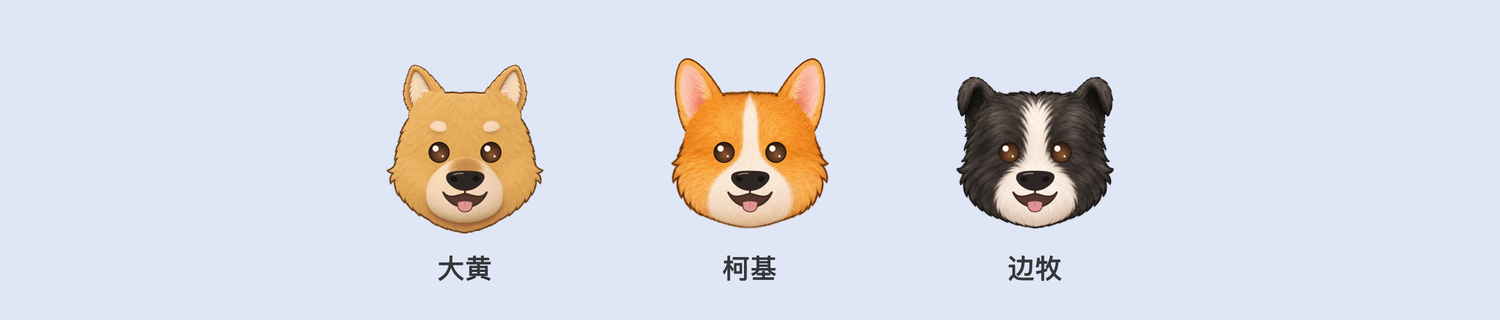
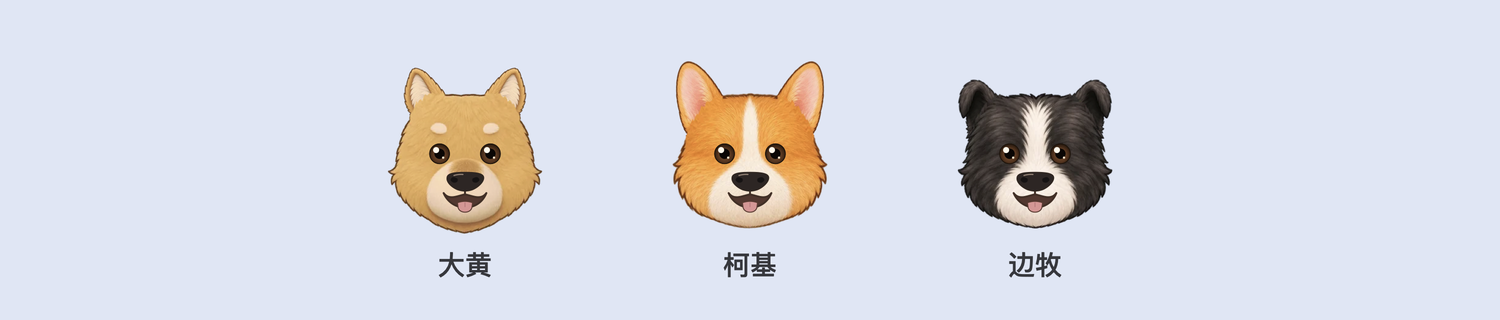
狗眼睛加黑瞳孔，虹膜改成外深内浅
- 小狗眼原来是一整颗棕色玻璃珠，没有瞳孔，像贴在毛上的纽扣；现在中间加一颗黑瞳孔，看向目标时比虹膜多偏一点
- 虹膜渐变改成中间浅、外圈深；三只狗的设置页头像和 README 合影同步更新
- 十只猫 1160 张回归截图零差异，三只狗 468 张截图已抽看，47 项测试通过

diff --git a/prototype/index.html b/prototype/index.html
@@ -32,11 +32,12 @@
     <clipPath id="clip-eye-r"><circle cx="455" cy="178" r="29"/></clipPath>
     <clipPath id="clip-puppy-l"><circle cx="363.108" cy="182" r="15"/></clipPath>
     <clipPath id="clip-puppy-r"><circle cx="436.892" cy="182" r="15"/></clipPath>
-    <!-- 小狗眼：暖棕虹膜，下方偏亮，外圈深 -->
-    <radialGradient id="puppy-iris" cx=".55" cy=".62" r=".62">
-      <stop stop-color="#8b5a33"/>
-      <stop offset=".5" stop-color="#5a3520"/>
-      <stop offset="1" stop-color="#23150c"/>
+    <!-- 小狗眼：暖棕虹膜，中间浅、外圈深，中间压一颗黑瞳孔 -->
+    <radialGradient id="puppy-iris" cx=".5" cy=".56" r=".6">
+      <stop stop-color="#8a5630"/>
+      <stop offset=".55" stop-color="#5b341b"/>
+      <stop offset=".85" stop-color="#2e1a0d"/>
+      <stop offset="1" stop-color="#170d06"/>
     </radialGradient>
     <!-- 前面那份尾巴的遮罩：盖掉身体（连同描边）那一块，尾巴从身后出来的部分仍被身体挡住。变换由 cat.js 跟着身体设置 -->
     <mask id="mask-tail-front" maskUnits="userSpaceOnUse" x="-20" y="-50" width="840" height="690">
@@ -116,6 +117,7 @@
 
     <g id="puppy-l-open" clip-path="url(#clip-puppy-l)" style="display:none">
       <circle id="puppy-l-pupil" class="puppy-pupil"/>
+      <circle id="puppy-l-dot" class="puppy-dot"/>
       <circle id="puppy-l-shine" fill="#fff8e8"/>
       <circle id="puppy-l-glint" fill="#f5dfc5"/>
       <rect id="puppy-l-lid" class="lid-l"/>
@@ -123,6 +125,7 @@
     </g>
     <g id="puppy-r-open" clip-path="url(#clip-puppy-r)" style="display:none">
       <circle id="puppy-r-pupil" class="puppy-pupil"/>
+      <circle id="puppy-r-dot" class="puppy-dot"/>
       <circle id="puppy-r-shine" fill="#fff8e8"/>
       <circle id="puppy-r-glint" fill="#f5dfc5"/>
       <rect id="puppy-r-lid" class="lid-r"/>

diff --git a/prototype/cat.js b/prototype/cat.js
@@ -245,7 +245,7 @@
     const puppyEyeEls = (s) => ({
       open: $('puppy-' + s + '-open'), clip: $('clip-puppy-' + s).querySelector('circle'),
       closed: $('eye-' + s + '-closed'), happy: $('eye-' + s + '-happy'),
-      pupil: $('puppy-' + s + '-pupil'), shine: $('puppy-' + s + '-shine'),
+      pupil: $('puppy-' + s + '-pupil'), dot: $('puppy-' + s + '-dot'), shine: $('puppy-' + s + '-shine'),
       glint: $('puppy-' + s + '-glint'), lid: $('puppy-' + s + '-lid'),
       lidLine: $('puppy-' + s + '-lidline'),
     });
@@ -790,7 +790,10 @@
         for (const n of puppy ? [e.clip, e.pupil] : [e.sclera, e.ring, e.clip]) {
           n.setAttribute('cx', x); n.setAttribute('cy', y); n.setAttribute('r', radius);
         }
-        if (puppy) e.glint.setAttribute('r', eyes.glint.radius);
+        if (puppy) {
+          e.glint.setAttribute('r', eyes.glint.radius);
+          e.dot?.setAttribute('r', eyes.dot?.radius ?? 0);
+        }
         else e.iris.setAttribute('r', eyes.irisRadius);
         e.shine.setAttribute('r', eyes.shine.radius);
         const edge = radius + lidPadding + (puppy ? eyes.gaze.max : 0);
@@ -895,6 +898,9 @@
           e.clip.setAttribute('cy', f1(py));
           e.glint.setAttribute('cx', f1(px + eyes.glint.x));
           e.glint.setAttribute('cy', f1(py + eyes.glint.y));
+          const lead = eyes.dot?.lead ?? 0;
+          e.dot?.setAttribute('cx', f1(px + offset.x * lead));
+          e.dot?.setAttribute('cy', f1(py + offset.y * lead));
           e.lid.setAttribute('y', f1(py - radius - lidPadding));
         } else {
           e.iris.setAttribute('cx', f1(cx + offset.x * irisTravel));

diff --git a/prototype/style.css b/prototype/style.css
@@ -353,6 +353,7 @@ html[data-cat="collie"] {
   --coat-blush-opacity: 0.35;
 }
 #scene .puppy-pupil { fill: url(#puppy-iris); stroke: #1e120a; stroke-width: 2.4; }
+#scene .puppy-dot { fill: #0b0604; }
 #scene .puppy-lid-line { stroke: #3a2417; stroke-width: 2.8; }
 #scene[data-eye-style="puppy"] .eye-arc-l,
 #scene[data-eye-style="puppy"] .eye-arc-r { stroke-width: 3.8; }

diff --git a/prototype/species-dog.js b/prototype/species-dog.js
@@ -185,6 +185,7 @@
         pupil: { rest: 15, excited: 15 },
         shine: { x: -5, y: -5.4, radius: 4.4 },
         glint: { x: 5.2, y: 5.6, radius: 1.7 },
+        dot: { radius: 7.5, lead: 0.3 },
         gaze: { max: 5, taper: 0, restY: 0, keyX: 4, keyY: 2 },
         arcs: {
           closed: { halfWidth: 13, edgeY: 2, controlY: 10 },

diff --git a/tools/portrait_scene.py b/tools/portrait_scene.py
@@ -81,6 +81,8 @@ def dog_eyes(scene, eyes):
         eye.attrib.pop("style", None)
         for circle in (by_id(eye, f"puppy-{side}-pupil"), by_id(scene, f"clip-puppy-{side}")[0]):
             circle.attrib.update(cx=str(cx), cy=str(cy), r=str(radius))
+        if "dot" in eyes:
+            by_id(eye, f"puppy-{side}-dot").attrib.update(cx=str(cx), cy=str(cy), r=str(eyes["dot"]["radius"]))
         for name in ("shine", "glint"):
             detail = eyes[name]
             by_id(eye, f"puppy-{side}-{name}").attrib.update(
